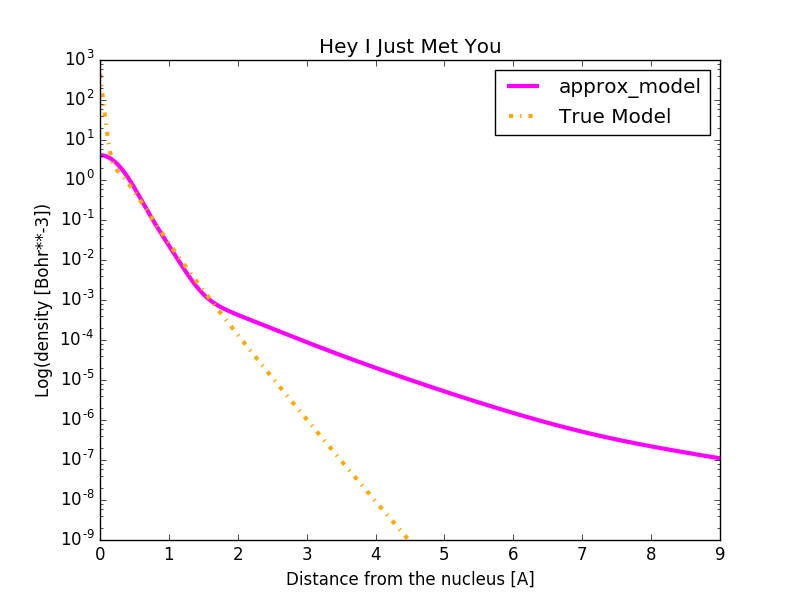
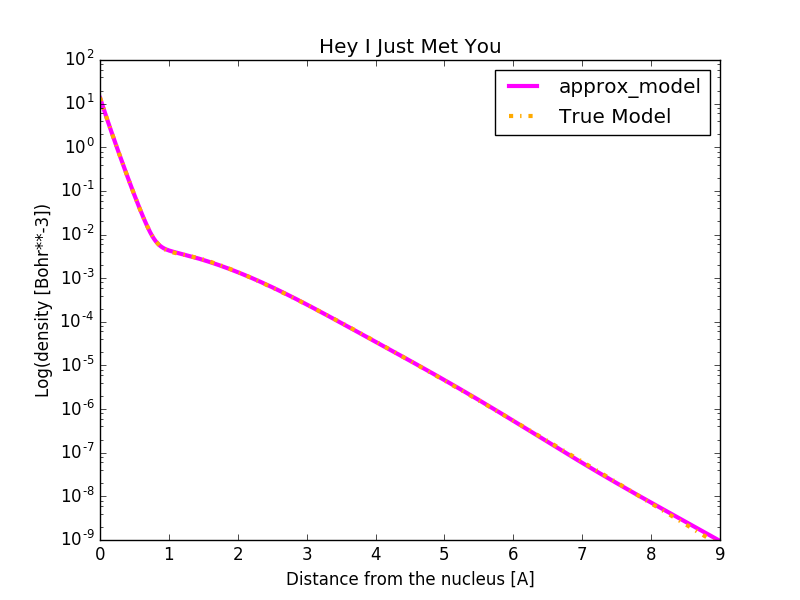
Added Results for Lithium and Nitrogen

diff --git a/fitting/fit/normalized_mbis.py b/fitting/fit/normalized_mbis.py
@@ -429,8 +429,8 @@ class ValenceMBIS(TotalMBIS):
         return new_coeffs, new_coeffs2, new_exps, new_exps2
 
 if __name__ == "__main__":
-    ELEMENT_NAME = "f"
-    ATOMIC_NUMBER = 9
+    ELEMENT_NAME = "li"
+    ATOMIC_NUMBER = 3
     import os
     print()
     current_directory = os.path.dirname(os.path.abspath(__file__))[:-3]
@@ -478,7 +478,7 @@ if __name__ == "__main__":
     mbis_obj_val = ValenceMBIS(be.electron_density_valence, radial_grid, weights=weights, element_name=ELEMENT_NAME, atomic_number=2)
     mbis_obj = TotalMBIS(be.electron_density, radial_grid, weights=weights, atomic_number=ATOMIC_NUMBER, element_name=ELEMENT_NAME)
 
-    coeffs, exps = mbis_obj.run(1e-4, 1e-2, coeffs, exps, iprint=True)
+    coeffs, exps = mbis_obj.run(1e-4, 0.2, coeffs, exps, iprint=True)
     print("final", coeffs, exps)
 
     model = mbis_obj.get_normalized_gaussian_density(coeffs, exps)
